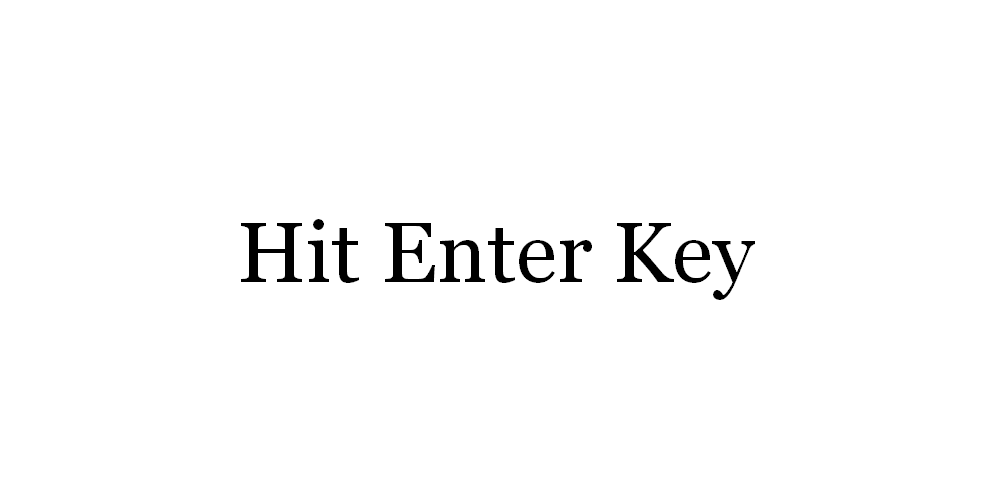
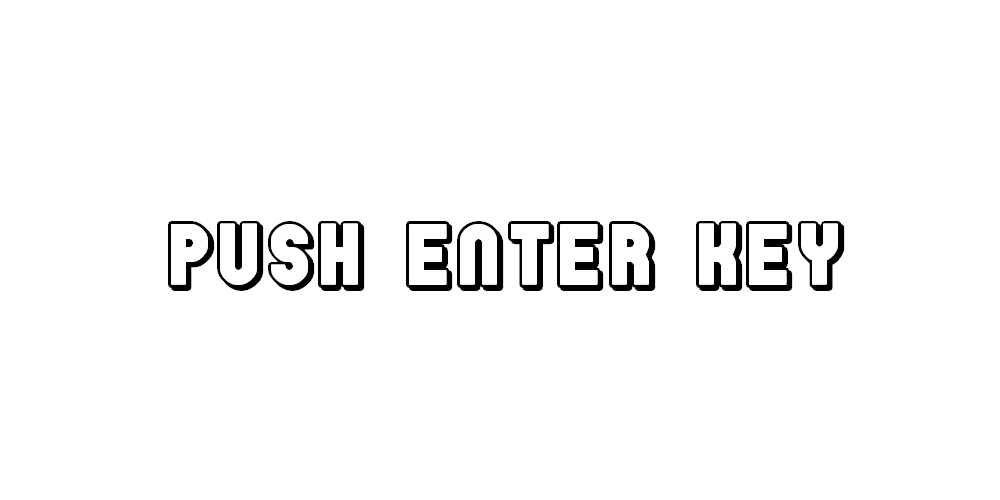
hpviewが減らないバグを修正

Changed region(s): [[0.155, 0.42, 0.868, 0.6]]

diff --git a/DirectXGame/DirectXGame/application/Enemy.cpp b/DirectXGame/DirectXGame/application/Enemy.cpp
@@ -45,6 +45,10 @@ void Enemy::Initialize(KamataEngine::Model* model, KamataEngine::Camera* camera)
     dash_.duration       = 60;   // 突進の最大継続フレーム
     dash_.preShakeTimer_ = 0;    // 突進前の震え演出
     dash_.justFinished_  = false;
+
+
+    hp_ = 10;
+    maxHp_ = 10;
 }
 
 void Enemy::Update() {
@@ -60,51 +64,28 @@ void Enemy::Update() {
 
     // ========== パーティクル処理（後方オフセット） ==========
     {
-        //if (prevPos.x != position_.x ||
-        //    prevPos.y != position_.y ||
-        //    prevPos.z != position_.z)
-        //{
-        //    // 敵の向きから前後方向を算出
-        //    float angleZ = worldTransform_.rotation_.z;
+        Particle* p = new Particle();
+        // パーティクルをエネミーの後ろ（奥）に生成
+        KamataEngine::Vector3 particlePos = worldTransform_.translation_;
+        particlePos.z += 5.0f;  // カメラから見て奥にオフセット
+        p->Initialize(particleModel_, camera_, particlePos);
+        particles_.push_back(p);
+    }
 
-        //    float forwardX = std::cos(angleZ);
-        //    float forwardY = std::sin(angleZ);
+    for (auto* p : particles_) {
+        p->Update();
+    }
 
-        //    float backX = -forwardX;
-        //    float backY = -forwardY;
-
-        //    // 後方への距離（必要に応じて調整）
-        //    float offset = 3.0f;
-        //    float zOffset = -1.5f; 
-
-        //    KamataEngine::Vector3 particlePos = {
-        //        position_.x + backX * offset,
-        //        position_.y + backY * offset,
-        //        position_.z + zOffset
-        //    };
-
-            Particle* p = new Particle();
-            // パーティクルをエネミーの後ろ（奥）に生成
-            KamataEngine::Vector3 particlePos = worldTransform_.translation_;
-            particlePos.z += 5.0f;  // カメラから見て奥にオフセット
-            p->Initialize(particleModel_, camera_, particlePos);
-            particles_.push_back(p);
-        }
-
-        for (auto* p : particles_) {
-            p->Update();
-        }
-
-        particles_.erase(
-            std::remove_if(particles_.begin(), particles_.end(),
-                [](Particle* p) {
-                    if (!p->IsAlive()) {
-                        delete p;
-                        return true;
-                    }
-                    return false;
-                }),
-            particles_.end());
+    particles_.erase(
+        std::remove_if(particles_.begin(), particles_.end(),
+            [](Particle* p) {
+                if (!p->IsAlive()) {
+                    delete p;
+                    return true;
+                }
+                return false;
+            }),
+        particles_.end());
     // =========================================================
 
     // --- ワールド行列更新 ---
@@ -113,7 +94,8 @@ void Enemy::Update() {
     if (move_.isApproaching_) {
         worldTransform_.rotation_.x = 3.14f / 2.0f;
         worldTransform_.rotation_.z = 3.14f;
-    } else {
+    }
+    else {
         if (targetPos_) {
             float dx = targetPos_->x - position_.x;
             float dy = targetPos_->y - position_.y;
@@ -149,6 +131,18 @@ void Enemy::OnDeath() {
 void Enemy::SetAlive() {
     isDead_ = false;
     shakeTimer_ = 0;
+}
+
+void Enemy::TakeDamage(int damage)
+{
+    if (isDead_) return;
+
+    hp_ -= damage;
+
+    if (hp_ <= 0) {
+        hp_ = 0;
+        OnDeath();
+    }
 }
 
 void Enemy::SetState() {

diff --git a/DirectXGame/DirectXGame/engine/secne/GameScene.cpp b/DirectXGame/DirectXGame/engine/secne/GameScene.cpp
@@ -27,6 +27,8 @@ GameScene::~GameScene() {
 	delete RedGraph_;
 	delete GreenGraph_;
 
+	delete enemyHpBack_;
+	delete enemyHpFront_;
 
 	Model2::StaticFinalize();
 }
@@ -118,6 +120,18 @@ void GameScene::Initialize() {
 	GreenGraph_->SetSize({300.0f,30.0f});
 	GreenGraph_->SetColor({ 0.0f, 1.0f, 0.0f, 0.5f });
 	GreenGraph_->SetPosition({ 500.0f,280.0f });
+
+	// 敵HPバー（背景）
+	enemyHpBack_ = new Graph();
+	enemyHpBack_->Initialize();
+	enemyHpBack_->SetSize({ 60.0f, 6.0f });
+	enemyHpBack_->SetColor({ 1.0f, 0.0f, 0.0f, 1.0f });
+
+	// 敵HPバー（前景）
+	enemyHpFront_ = new Graph();
+	enemyHpFront_->Initialize();
+	enemyHpFront_->SetSize({ 60.0f, 6.0f });
+	enemyHpFront_->SetColor({ 0.0f, 1.0f, 0.0f, 1.0f });
 
 	// 「敵をPushで倒せ」スプライト
 	pushPromptTextureHandle_ = TextureManager::Load("PushPrompt.png");
@@ -276,8 +290,9 @@ if (player_ && enemy_ && !player_->IsDead() && !enemy_->IsDead()) {
 
 					bossState_ = BossChallengeState::Start;
 				} else {
-					enemy_->OnDeath(); // 通常敵処理
+					enemy_->TakeDamage(1); // 通常敵処理
 					defeatCount_++;
+					
 				}
 			}
 		}
@@ -434,6 +449,43 @@ if (player_ && enemy_ && !player_->IsDead() && !enemy_->IsDead()) {
 		}
 	}
 // ======================================================================================
+	
+// =========================== HPバー =================================
+	if (enemy_ && !enemy_->IsDead()) {
+
+		Vector3 enemyPos = enemy_->GetPosition();
+
+
+
+		float barX = enemyPos.x * 20.0f + 640.0f;
+		float barY = -enemyPos.y * 20.0f + 360.0f - 30.0f;
+
+		float maxWidth = 60.0f;
+		float height   = 6.0f;
+
+		float hpRate =
+			static_cast<float>(enemy_->GetHp()) /
+			static_cast<float>(enemy_->GetMaxHp());
+
+		if (hpRate < 0.0f) hpRate = 0.0f;
+		if (hpRate > 1.0f) hpRate = 1.0f;
+
+		float greenWidth = maxWidth * hpRate;
+
+		// 赤（背景
+		enemyHpBack_->SetSize({ maxWidth, height });
+		enemyHpBack_->SetPosition({ barX, barY });
+
+		// 緑（前
+		enemyHpFront_->SetSize({ greenWidth, height });
+
+		// 幅が減った分、中心を右にずらす
+		float offsetX = (maxWidth - greenWidth) * 0.5f;
+		enemyHpFront_->SetPosition({ barX - offsetX, barY });
+
+	}
+// ======================================================================
+	
 	worldTransform_.UpdateMatrix();
 	worldTransform_.TransferMatrix();
 }
@@ -520,6 +572,15 @@ void GameScene::Draw() {
 	Model::PostDraw();
 #pragma endregion
 
+	Sprite::PreDraw(dxCommn->GetCommandList());
+
+	if (enemy_ && !enemy_->IsDead()) {
+		enemyHpBack_->Draw();
+		enemyHpFront_->Draw();
+	}
+
+	Sprite::PostDraw();
+
 	// 3Dモデル描画前処理
 	Model2::PreDraw(dxCommn->GetCommandList());
 
@@ -552,4 +613,7 @@ void GameScene::InitializePhase() {
 void GameScene::DrawImGui()
 {
 	player_->DrawImGui();
+	ImGui::Text("Enemy HP : %d / %d",
+		enemy_->GetHp(),
+		enemy_->GetMaxHp());
 }

diff --git a/DirectXGame/DirectXGame/engine/secne/TitleScene.cpp b/DirectXGame/DirectXGame/engine/secne/TitleScene.cpp
@@ -15,8 +15,11 @@ TitleScene::~TitleScene()
 
 void TitleScene::Initialize()
 {
-	HitTextureHandle_ = TextureManager::Load("Hit.png");
+	HitTextureHandle_ = TextureManager::Load("hit.png");
 	HitSprite_ = Sprite::Create(HitTextureHandle_, { 170,200 });
+
+	TitleTextureHandle_ = TextureManager::Load("Title.png");
+	TitleSprite_ = Sprite::Create(TitleTextureHandle_, { 525,250 });
 
 	titleModel_ = Model::CreateFromOBJ("Title");
 	title_ = new TitleModel();
@@ -35,19 +38,17 @@ void TitleScene::Initialize()
 
 void TitleScene::Update()
 {
-	//Input* input = Input::GetInstance();
-
 	// α値用タイマーを進める
-	hitAlphaTime_ += 1.0f / 60.0f;  // 60FPS前提
+	hitAlphaTime_ += 1.0f / 60.0f;
 
-	// α値をsin波で滑らかに変化（0.0～1.0）
+	// α値をsin波で滑らかに変化
 	float alpha = (std::sin(hitAlphaTime_ * 3.14f * 2.0f) + 1.0f) * 0.5f;
 
-	// スプライトに色設定（R,G,B=1.0f, αだけ変化）
+	// スプライトに色設定
 	HitSprite_->SetColor({ 1.0f, 1.0f, 1.0f, alpha });
 
 	//=======タイトルモデル移動処理===========
-	title_->Update();
+	//title_->Update();
 
 	stage1->Update();
 }
@@ -74,6 +75,8 @@ void TitleScene::Draw()
 	// 3Dモデル描画前処理
 	Sprite::PreDraw(dxCommn->GetCommandList());
 
+	TitleSprite_->Draw();
+
 	HitSprite_->Draw();
 
 	// 3Dモデル描画後処理
@@ -84,7 +87,7 @@ void TitleScene::Draw()
 	// 3Dオブジェクト描画前処理
 	Model::PreDraw(dxCommn->GetCommandList());
 
-	title_->Draw(&camera_);
+	//title_->Draw(&camera_);
 
 	Model::PostDraw();
 }

diff --git a/DirectXGame/DirectXGame/application/Player.cpp b/DirectXGame/DirectXGame/application/Player.cpp
@@ -52,6 +52,8 @@ void Player::Initialize(KamataEngine::Model* model,KamataEngine::Camera*camera)
 
 	worldTransform_.rotation_.x = 3.14f / 1.0f;
 
+	targetPos_ = worldTransform_.translation_;
+
 	worldTransform_.translation_ = position_;
 	worldTransform_.UpdateMatrix();
 	// 行列を定数バッファに転送
@@ -65,10 +67,15 @@ void Player::Update()
 	if (isDead_) return;
 
 	// --- プレイヤー移動 ---
-	if (input->PushKey(DIK_W))    worldTransform_.translation_.y += speed_;
-	if (input->PushKey(DIK_S))  worldTransform_.translation_.y -= speed_;
-	if (input->PushKey(DIK_A))  worldTransform_.translation_.x -= speed_;
-	if (input->PushKey(DIK_D)) worldTransform_.translation_.x += speed_;
+	if (input->PushKey(DIK_W)) targetPos_.y += speed_;
+	if (input->PushKey(DIK_S)) targetPos_.y -= speed_;
+	if (input->PushKey(DIK_A)) targetPos_.x -= speed_;
+	if (input->PushKey(DIK_D)) targetPos_.x += speed_;
+
+	worldTransform_.translation_.x =
+		Lerp(worldTransform_.translation_.x, targetPos_.x, moveLerp_);
+	worldTransform_.translation_.y =
+		Lerp(worldTransform_.translation_.y, targetPos_.y, moveLerp_);
 
 
 	// ========== パーティクル処理 =============

diff --git a/DirectXGame/DirectXGame/application/Enemy.h b/DirectXGame/DirectXGame/application/Enemy.h
@@ -31,6 +31,8 @@ public:
 
 	void SetAlive();
 
+	void TakeDamage(int damage);
+
 	// State関数
 	void SetState();
 
@@ -54,6 +56,8 @@ public:
 
 	void ResetForPhase(const KamataEngine::Vector3& pos) {
 		position_ = pos;
+		hp_ = 10;
+		maxHp_ = 10;
 		isDead_ = false;
 		isEscaping_ = false;
 		shakeTimer_ = 0;
@@ -90,6 +94,9 @@ public:
 	const KamataEngine::Vector3& GetPosition() const {
 		return position_;
 	}
+
+	int GetHp() const { return hp_; }
+	int GetMaxHp() const { return maxHp_; }
 
 private:
 	// ワールド変換データ
@@ -164,6 +171,9 @@ private:
 	int shakeTimer_ = 0;
 
 	bool forceMove_ = false; 
+
+	int hp_ = 0;
+	int maxHp_ = 0;
 
 	// その他フラグ類
 	bool isDead_ = false;

diff --git a/DirectXGame/DirectXGame/application/Player.h b/DirectXGame/DirectXGame/application/Player.h
@@ -68,9 +68,12 @@ private:
     KamataEngine::Model* particleModel_ = nullptr;
 
     // 移動速度
-    float speed_ = 0.5f;
+    float speed_ = 0.2f;
     // 回転
     float yaw_ = 0.0f;
+
+    KamataEngine::Vector3 targetPos_;   // 目標位置
+    float moveLerp_ = 0.15f; // 補間係数
 
     // フラグ類
     bool isDead_ = false;  // 死亡フラグ

diff --git a/DirectXGame/DirectXGame/engine/secne/GameScene.h b/DirectXGame/DirectXGame/engine/secne/GameScene.h
@@ -81,6 +81,11 @@ private:
 	bool isDamageActive_ = false; 
 	float hp_ = 100.0f;
 
+	// HPバー
+	Graph* enemyHpBack_ = nullptr;
+	Graph* enemyHpFront_ = nullptr;
+
+
 	KamataEngine::Vector3 cursorPos_{0.0f, 0.0f, 30.0f}; // 初期位置
 	float cursorSpeed_ = 0.5f; // 移動速度
 	uint32_t crossTexture_;// 標準

diff --git a/DirectXGame/DirectXGame/engine/secne/TitleScene.h b/DirectXGame/DirectXGame/engine/secne/TitleScene.h
@@ -29,6 +29,9 @@ private:
 	// タイトル操作スプライト
 	KamataEngine::Sprite* HitSprite_ = nullptr;
 
+	uint32_t TitleTextureHandle_ = 0;
+	KamataEngine::Sprite* TitleSprite_ = nullptr;
+
 	Stage* stage1 = nullptr;
 
 	TitleModel* title_ = nullptr;
